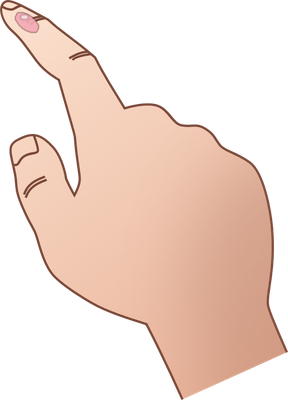
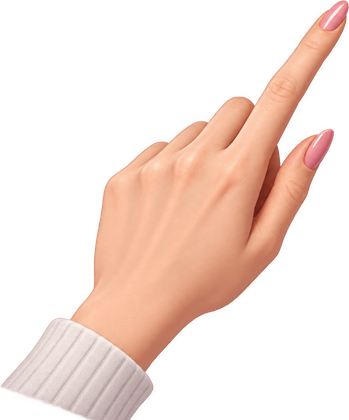
Use the team's tutorial hand with a hold hint
Swap in the supplied realistic hand. It points up and to the right, so its
fingertip anchors on the glass with the hand resting below-left, and the
guide targets the right-most glass to keep it on screen. Once the glass
is over the mixer the hand presses and keeps pressing while a "Basılı tut"
pill fills its bar.

diff --git a/src/game/hud.css b/src/game/hud.css
@@ -159,9 +159,9 @@
 }
 
 #pigment-hud .guide {
-  --hand-size: 96px;
-  --tip-x: -3px;
-  --tip-y: -3px;
+  --hand-size: 110px;
+  --tip-x: -105px;
+  --tip-y: -4px;
   --press: 1.3s;
   position: absolute;
   top: 0;
@@ -174,73 +174,154 @@
   display: none;
 }
 
-/* The fingertip sits on the glass: the hand fades in in place, presses and lifts; no travel. */
+/*
+ * The fingertip sits on the glass and the hand rests below-left of it, pointing up and to the right.
+ * It fades in in place and taps along the finger's direction; no travel from off-screen.
+ */
 #pigment-hud .guide-hand {
+  --lift: translate(-10px, 13px);
   position: absolute;
   left: var(--tip-x);
   top: var(--tip-y);
   width: var(--hand-size);
   height: auto;
   transform-origin: calc(var(--tip-x) * -1) calc(var(--tip-y) * -1);
-  filter: drop-shadow(0 8px 10px rgba(0, 0, 0, 0.45));
+  transform: var(--lift) scale(1);
+  filter: drop-shadow(0 10px 12px rgba(0, 0, 0, 0.4));
   animation: pg-hand-tap var(--press) ease-in-out infinite;
   user-select: none;
   -webkit-user-drag: none;
 }
 
 #pigment-hud .guide.is-hold .guide-hand {
-  animation: pg-hand-hold calc(var(--press) * 2) ease-in-out infinite;
+  animation: pg-hand-hold calc(var(--press) * 2.2) ease-in-out infinite;
 }
 
-/* Lifted: a little above and larger; pressed: fingertip on the anchor, slightly smaller. */
 @keyframes pg-hand-tap {
   0% {
-    transform: translateY(-14px) scale(1.06);
+    transform: var(--lift) scale(1);
     opacity: 0;
   }
   15%,
-  30% {
-    transform: translateY(-14px) scale(1.06);
+  32% {
+    transform: var(--lift) scale(1);
     opacity: 1;
   }
   45%,
   55% {
-    transform: translateY(0) scale(0.92);
+    transform: translate(0, 0) scale(0.94);
     opacity: 1;
   }
-  75%,
+  72%,
   88% {
-    transform: translateY(-14px) scale(1.06);
+    transform: var(--lift) scale(1);
     opacity: 1;
   }
   100% {
-    transform: translateY(-14px) scale(1.06);
+    transform: var(--lift) scale(1);
     opacity: 0;
   }
 }
 
+/* Press, then keep pressing (a slow squeeze shows the pressure) while the bar fills, then let go. */
 @keyframes pg-hand-hold {
   0% {
-    transform: translateY(-14px) scale(1.06);
+    transform: var(--lift) scale(1);
     opacity: 0;
   }
-  10%,
-  18% {
-    transform: translateY(-14px) scale(1.06);
+  8%,
+  14% {
+    transform: var(--lift) scale(1);
     opacity: 1;
   }
-  28%,
-  78% {
-    transform: translateY(0) scale(0.92);
+  22% {
+    transform: translate(0, 0) scale(0.93);
+  }
+  40%,
+  70% {
+    transform: translate(0, 0) scale(0.9);
+  }
+  55%,
+  84% {
+    transform: translate(0, 0) scale(0.93);
     opacity: 1;
   }
-  90% {
-    transform: translateY(-14px) scale(1.06);
+  94% {
+    transform: var(--lift) scale(1);
     opacity: 1;
   }
   100% {
-    transform: translateY(-14px) scale(1.06);
+    transform: var(--lift) scale(1);
     opacity: 0;
+  }
+}
+
+/* "Basılı tut" pill above the fingertip, with a bar that fills while the hand holds. */
+#pigment-hud .guide-hold {
+  position: absolute;
+  left: 0;
+  top: -54px;
+  transform: translateX(-50%);
+  display: none;
+  flex-direction: column;
+  align-items: center;
+  gap: 5px;
+  padding: 6px 12px 7px;
+  border-radius: 99px;
+  background: rgba(26, 17, 12, 0.85);
+  box-shadow: 0 4px 14px rgba(0, 0, 0, 0.4), inset 0 0 0 1px rgba(217, 168, 91, 0.5);
+  color: #f3cf8e;
+  font-size: 0.72rem;
+  font-weight: 800;
+  letter-spacing: 0.12em;
+  text-transform: uppercase;
+  white-space: nowrap;
+  animation: pg-hold-label calc(var(--press) * 2.2) ease-in-out infinite;
+}
+
+#pigment-hud .guide.is-hold .guide-hold {
+  display: flex;
+}
+
+#pigment-hud .guide-hold i {
+  width: 72px;
+  height: 5px;
+  border-radius: 99px;
+  background: rgba(255, 255, 255, 0.15);
+  overflow: hidden;
+}
+
+#pigment-hud .guide-hold b {
+  display: block;
+  height: 100%;
+  border-radius: inherit;
+  background: linear-gradient(90deg, #d9a85b, #ffe2a8);
+  transform-origin: left;
+  animation: pg-hold-bar calc(var(--press) * 2.2) linear infinite;
+}
+
+@keyframes pg-hold-label {
+  0%,
+  12% {
+    opacity: 0;
+  }
+  20%,
+  88% {
+    opacity: 1;
+  }
+  100% {
+    opacity: 0;
+  }
+}
+
+@keyframes pg-hold-bar {
+  0%,
+  22% {
+    transform: scaleX(0);
+  }
+  84%,
+  100% {
+    transform: scaleX(1);
   }
 }
 

diff --git a/src/game/hud.js b/src/game/hud.js
@@ -5,8 +5,9 @@ import { defaultGameConfig } from "../gameConfig/defaultGameConfig.js";
 const handConfig = defaultGameConfig.components.tutorialHand;
 
 // Fingertip inside tutorialHand.png, as a fraction of its width / height, and its height / width.
-const TIP = { x: 0.035, y: 0.025 };
-const HAND_ASPECT = 400 / 288;
+// The hand points up and to the right, so it rests below-left of what it taps.
+const TIP = { x: 0.955, y: 0.03 };
+const HAND_ASPECT = 420 / 349;
 
 /** `handImage` is the resolved asset entry of params.components.tutorialHand.assets.hand. */
 export function mountHud(actions, handImage) {
@@ -25,7 +26,10 @@ export function mountHud(actions, handImage) {
       <button type="button" class="retry-button" id="pg-retry" aria-label="Baştan başla">↻</button>
     </header>
     <p class="hint" id="pg-hint">Bir bardağa dokun, basılı tutarak dök</p>
-    <div class="guide" id="pg-guide" hidden><img class="guide-hand" id="pg-hand" alt="" draggable="false" /></div>
+    <div class="guide" id="pg-guide" hidden>
+      <img class="guide-hand" id="pg-hand" alt="" draggable="false" />
+      <div class="guide-hold"><span>Basılı tut</span><i><b></b></i></div>
+    </div>
     <div class="target-tag" id="pg-tag" hidden><span id="pg-tag-dot"></span>Hedef</div>
     <section class="result" id="pg-result" hidden>
       <div class="result-card">

diff --git a/src/game/bench.js b/src/game/bench.js
@@ -955,7 +955,9 @@ export class MixingBench {
       this.setGuide(null);
       return;
     }
-    const v = this.active && this.active.mode === "pour" ? this.active : this.active ? null : this.sources[0];
+    // The hand rests below-left of what it taps, so point at the right-most glass to keep it on screen.
+    const rightmost = this.sources.reduce((a, b) => (b.home.x > a.home.x ? b : a));
+    const v = this.active && this.active.mode === "pour" ? this.active : this.active ? null : rightmost;
     if (!v) {
       this.setGuide(null);
       return;

diff --git a/src/params.js b/src/params.js
@@ -53,7 +53,7 @@ export default defineConfig({
       assets: { backdrop: image("background.jpg") }
     }),
 
-    // Pointing hand of the level-1 tutorial: Openclipart #177491 (public domain), recoloured.
+    // Pointing hand of the level-1 tutorial (supplied by the team); it points up and to the right.
     tutorialHand: group("Tutorial hand", {
       componentType: "perspective",
       assets: { hand: image("tutorialHand.png") }

diff --git a/src/gameConfig/defaultGameConfig.js b/src/gameConfig/defaultGameConfig.js
@@ -133,7 +133,7 @@ export const defaultGameConfig = {
 
     tutorialHand: {
       enabled: true,
-      size: 78, // px, width of the hand
+      size: 115, // px, width of the hand
       pressDuration: 1.3 // seconds per tap (a hold loop takes twice as long)
     }
   }
